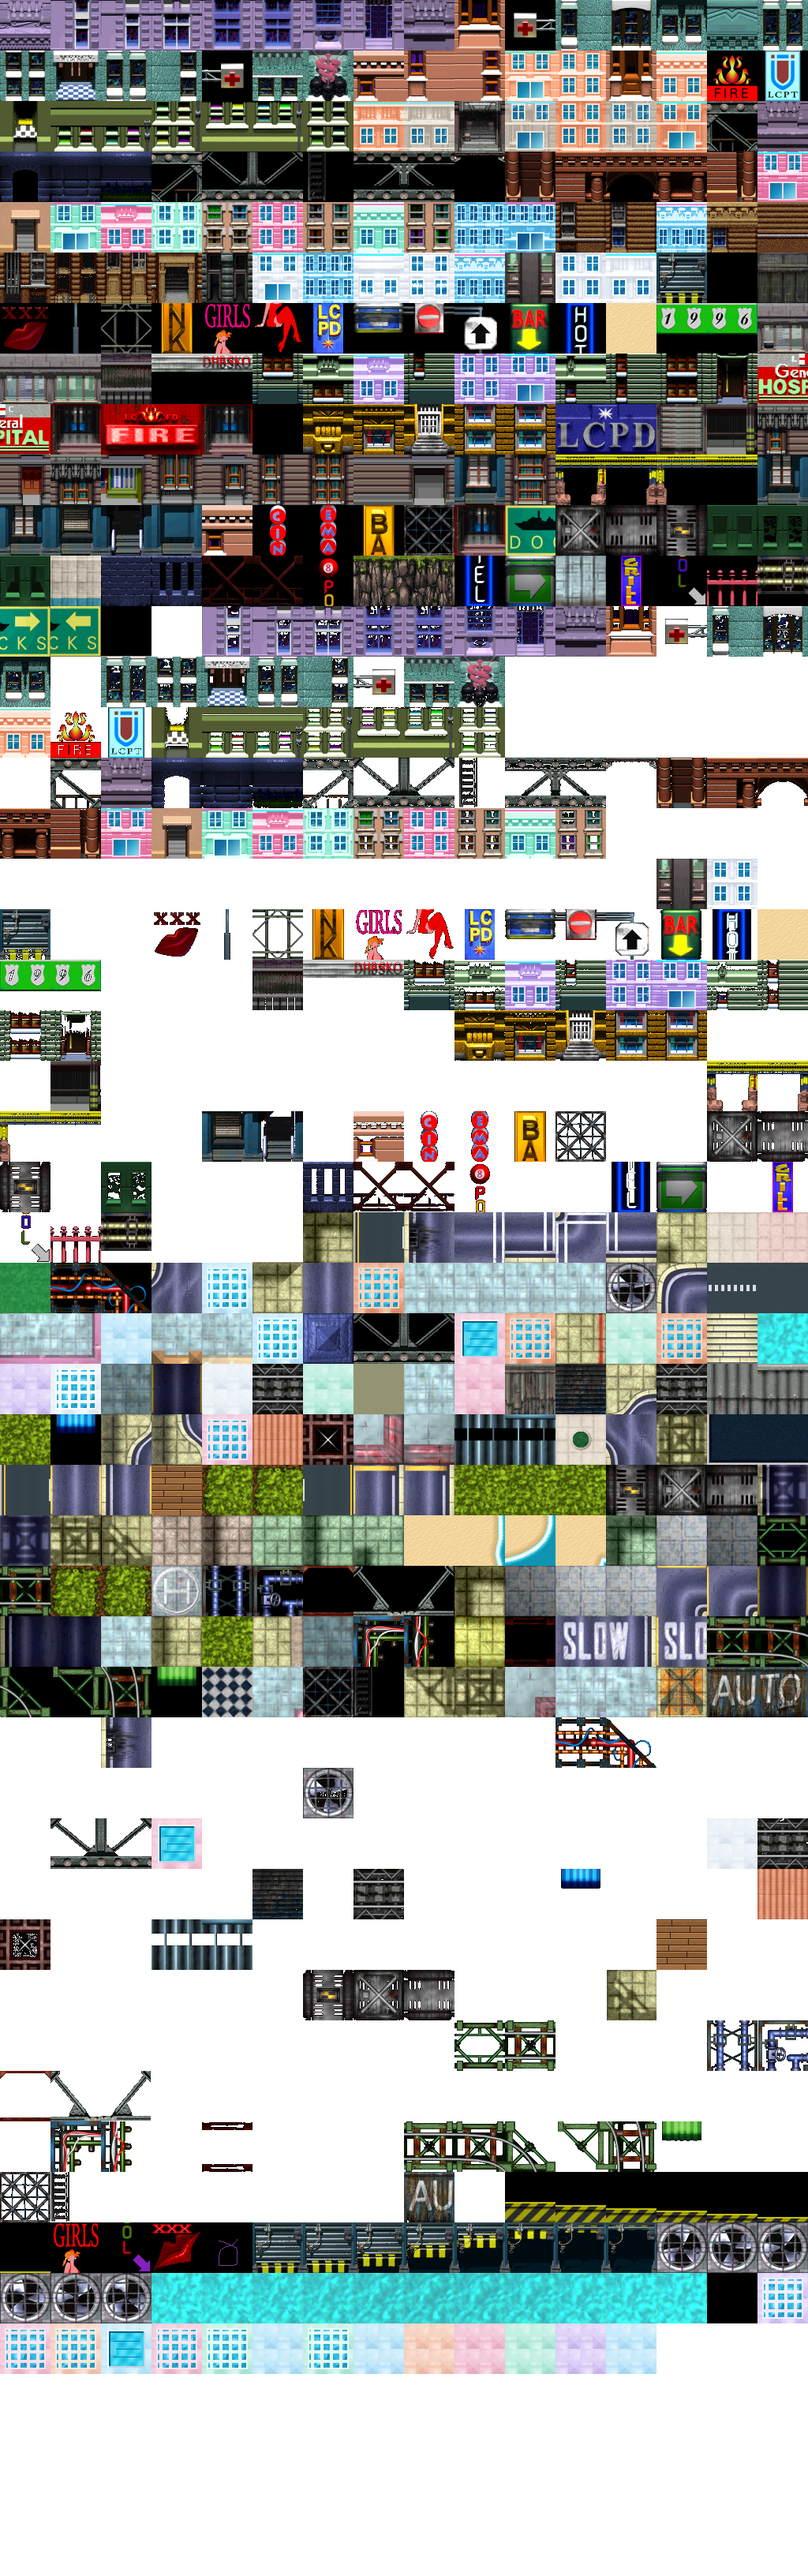
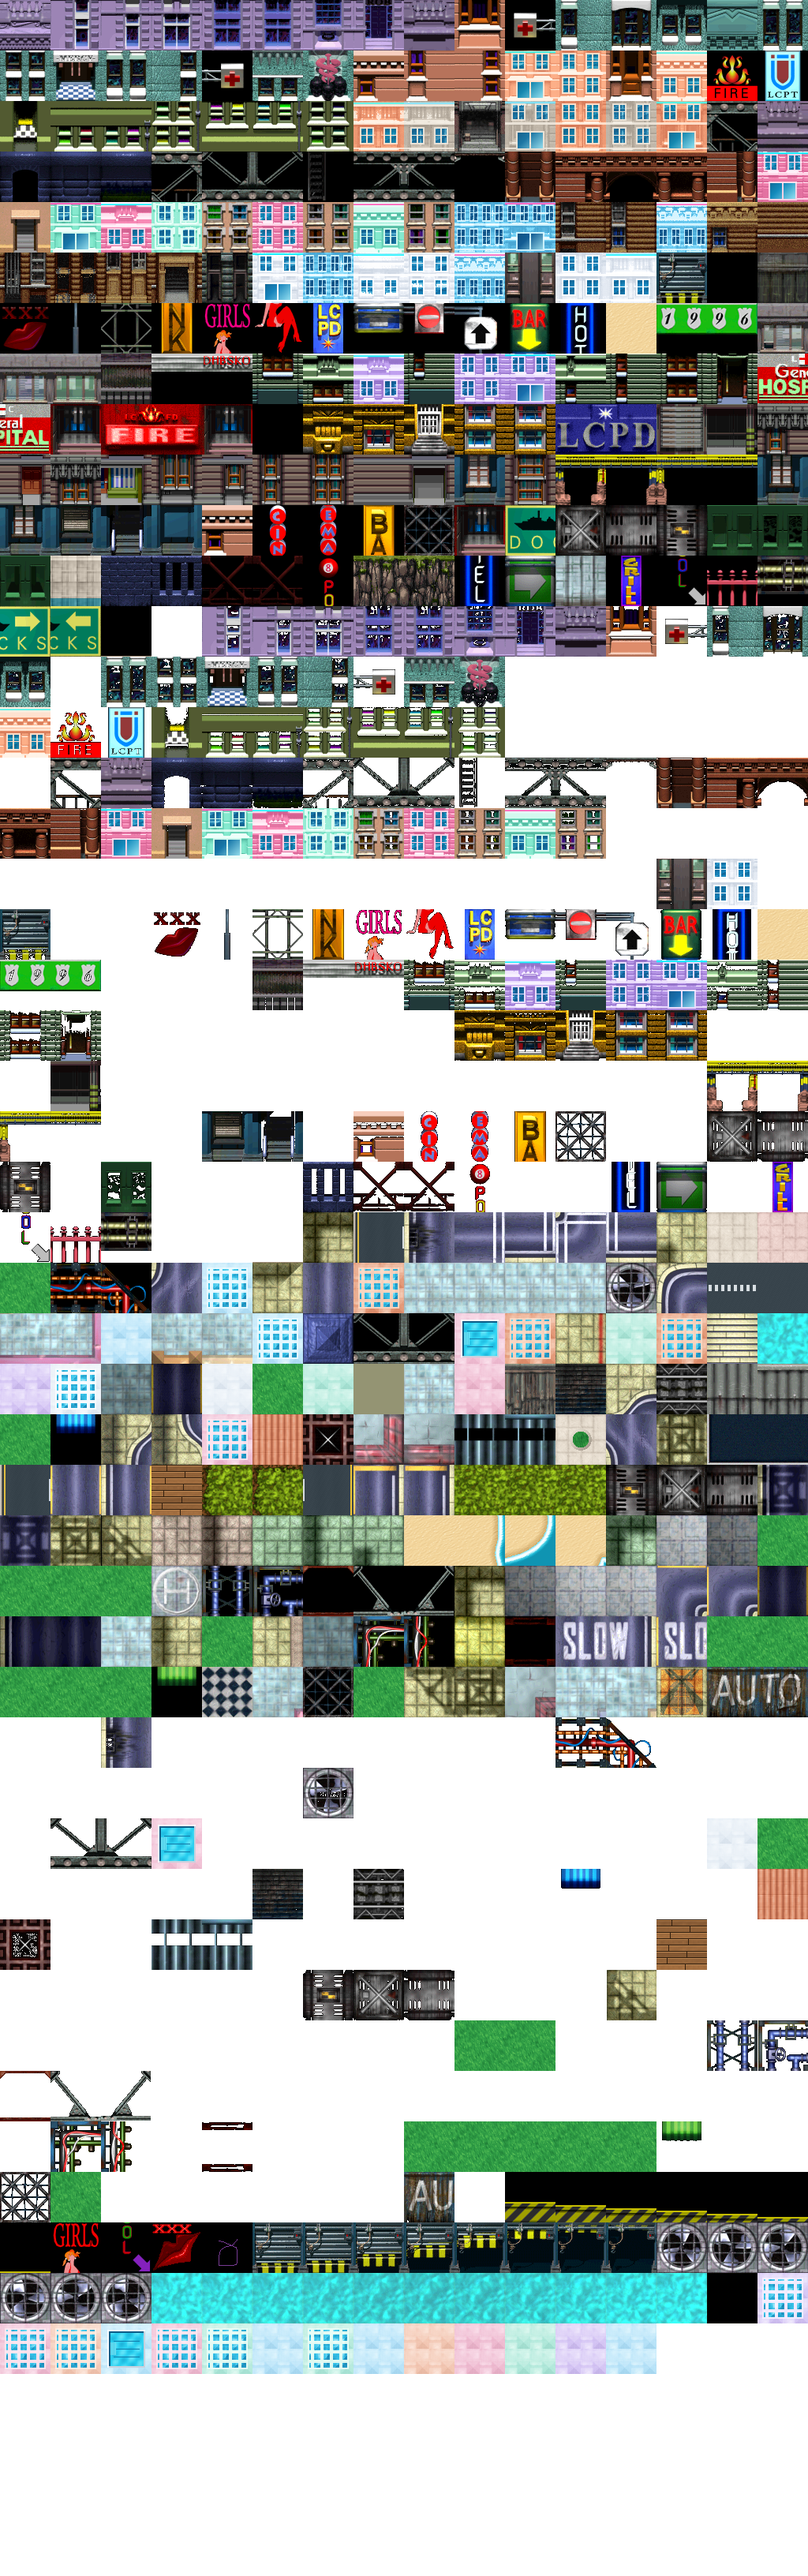
v98.08: Seamless stationary tropical Miami park lawn & Lummus Park greenbelt

diff --git a/js/renderer.js b/js/renderer.js
@@ -161,8 +161,9 @@ class RetroRenderer {
                     c.rgb = mix(c.rgb, crestFoam, caust * 0.15 * (1.0 - uNightTint * 0.65));
                     c.a = 0.78;
                 } else if (vAnim > -0.5 && vAnim < 0.5 && vWorldPos.y < 2.2) {
-                    // World-space multi-block Miami beach sand wind-ripples & coastal dune relief (100% continuous & non-repeating across block boundaries!)
+                    // World-space multi-block Miami beach sand wind-ripples & tropical St. Augustine park lawn undulation!
                     float isSand = clamp((c.r - c.b - 0.18) * 7.5, 0.0, 1.0) * step(0.72, c.r);
+                    float isGrass = clamp((c.g - c.r - 0.14) * 7.5, 0.0, 1.0) * clamp((c.g - c.b - 0.12) * 7.5, 0.0, 1.0);
                     if (isSand > 0.01) {
                         float warp = sin(vWorldPos.z * 1.73 + vWorldPos.x * 0.89) * 0.85;
                         float r1 = sin(vWorldPos.x * 5.83 + vWorldPos.z * 2.91 + warp);
@@ -173,6 +174,16 @@ class RetroRenderer {
                         vec3 sandTrough = vec3(0.84, 0.69, 0.45);
                         vec3 targetSand = mix(sandTrough, sandCrest, clamp(0.54 + duneWave * 0.24, 0.0, 1.0));
                         c.rgb = mix(c.rgb, targetSand, isSand * 0.36);
+                    } else if (isGrass > 0.01) {
+                        float gWarp = sin(vWorldPos.z * 1.61 - vWorldPos.x * 0.97) * 0.75;
+                        float g1 = sin(vWorldPos.x * 5.17 + vWorldPos.z * 3.43 + gWarp);
+                        float g2 = cos(vWorldPos.x * 13.89 - vWorldPos.z * 9.23 + sin(vWorldPos.z * 2.71) * 0.6);
+                        float g3 = sin(vWorldPos.x * 27.7 + vWorldPos.z * 19.3);
+                        float turfWave = (g1 * 0.50 + g2 * 0.34 + g3 * 0.16) * isGrass;
+                        vec3 turfShadow = vec3(0.09, 0.42, 0.18);
+                        vec3 turfSunlit = vec3(0.42, 0.81, 0.36);
+                        vec3 targetTurf = mix(turfShadow, turfSunlit, clamp(0.52 + turfWave * 0.26, 0.0, 1.0));
+                        c.rgb = mix(c.rgb, targetTurf, isGrass * 0.34);
                     }
                 }
 
@@ -605,7 +616,7 @@ class RetroRenderer {
                 }
 
                 // Lazily load secondary NYC classic tile atlas after main Vice City world is already live
-                loadImageWithRetry(this.gta1TilesImg, "assets/gta1/gta1_tiles.png?v=98_07", () => {
+                loadImageWithRetry(this.gta1TilesImg, "assets/gta1/gta1_tiles.png?v=98_08", () => {
                     if (this.gl) {
                         this.tilesTexNyc = this.createGLTexture(this.gta1TilesImg, true);
                         if (this.mapStyle === "NYC") {
@@ -653,34 +664,34 @@ class RetroRenderer {
             return run();
         };
 
-        loadImageWithRetry(this.gta1TilesViceImg, "assets/gta1/gta1_tiles_vice.png?v=98_07", () => {
+        loadImageWithRetry(this.gta1TilesViceImg, "assets/gta1/gta1_tiles_vice.png?v=98_08", () => {
             viceTilesLoaded = true;
             checkReady();
         });
 
-        loadImageWithRetry(this.gta1SpritesImg, "assets/gta1/gta1_sprites.png?v=98_07", () => {
+        loadImageWithRetry(this.gta1SpritesImg, "assets/gta1/gta1_sprites.png?v=98_08", () => {
             spritesLoaded = true;
             checkReady();
         });
 
-        loadImageWithRetry(this.viceOverviewImg, "assets/gta1/vice_cmp_overview.png?v=98_07", () => {
+        loadImageWithRetry(this.viceOverviewImg, "assets/gta1/vice_cmp_overview.png?v=98_08", () => {
             this.viceOverviewReady = true;
             this.bakeRadarBackground();
         });
 
-        loadImageWithRetry(this.nycOverviewImg, "assets/gta1/nyc_cmp_overview.png?v=98_07", () => {
+        loadImageWithRetry(this.nycOverviewImg, "assets/gta1/nyc_cmp_overview.png?v=98_08", () => {
             this.nycOverviewReady = true;
             this.bakeRadarBackground();
         });
 
-        fetchWithRetry("assets/gta1/gta1_meta.json?v=98_07", false)
+        fetchWithRetry("assets/gta1/gta1_meta.json?v=98_08", false)
             .then((meta) => {
                 this.gta1Meta = meta;
                 checkReady();
             })
             .catch((err) => console.error("Failed to load gta1_meta.json:", err));
 
-        fetchWithRetry("assets/gta1/gta1_map.bin?v=98_07", true)
+        fetchWithRetry("assets/gta1/gta1_map.bin?v=98_08", true)
             .then((buf) => {
                 mapBinBuffer = buf;
                 checkReady();

diff --git a/js/map.js b/js/map.js
@@ -290,6 +290,24 @@ class LeonidaMap {
             }
         }
 
+        // Lummus Park Tropical Greenbelt Lawn along Ocean Drive (cx = 219..220, ry = 60..190):
+        // Lush St. Augustine tropical grass lawn between Ocean Drive's palm-lined sidewalk (cx = 218) and Vice Beach (cx >= 221),
+        // with coral-stone beach access footpaths at every cross-street (ry % 8 === 0)!
+        const cleanGrassBlkIdx = 10; // Block 10 in gta1_map.bin is (80, 0, 0, 0, 0, 0, 10) -> clean lid 10 grass!
+        for (let ry = 60; ry <= 190; ry++) {
+            if (ry % 8 === 0) continue;
+            for (let cx = 219; cx <= 220; cx++) {
+                const g2 = (2 * MAP_ROWS + ry) * MAP_COLS + cx;
+                const b2 = this.blocksData[this.voxelGrid[g2]];
+                if (b2 && b2.lid !== 0) continue;
+                const g1 = (1 * MAP_ROWS + ry) * MAP_COLS + cx;
+                const b1 = this.blocksData[this.voxelGrid[g1]];
+                if (b1 && (b1.lid === 8 || b1.lid === 9)) {
+                    this.voxelGrid[g1] = cleanGrassBlkIdx;
+                }
+            }
+        }
+
         // Miami Art Deco Rooftop Pool & Glass Skylight Atrium Pass:
         // Enriches penthouse & hotel roof tiles (lid 46, 48, 51) with centerpiece Turquoise Rooftop Pools (lid 35)
         // and 3ds Max Glass Skylight Atriums (lid 31) while preserving 100% of their 3D side walls (w, e, n, s)!

diff --git a/index.html b/index.html
@@ -244,11 +244,11 @@
     </div>
 
     <!-- Modular Zero-Dependency 1997 2.5D Engine Scripts -->
-    <script src="js/audio.js?v=98_07"></script>
-    <script src="js/map.js?v=98_07"></script>
-    <script src="js/entities.js?v=98_07"></script>
-    <script src="js/missions.js?v=98_07"></script>
-    <script src="js/renderer.js?v=98_07"></script>
-    <script src="js/game.js?v=98_07"></script>
+    <script src="js/audio.js?v=98_10"></script>
+    <script src="js/map.js?v=98_10"></script>
+    <script src="js/entities.js?v=98_10"></script>
+    <script src="js/missions.js?v=98_10"></script>
+    <script src="js/renderer.js?v=98_10"></script>
+    <script src="js/game.js?v=98_10"></script>
 </body>
 </html>
